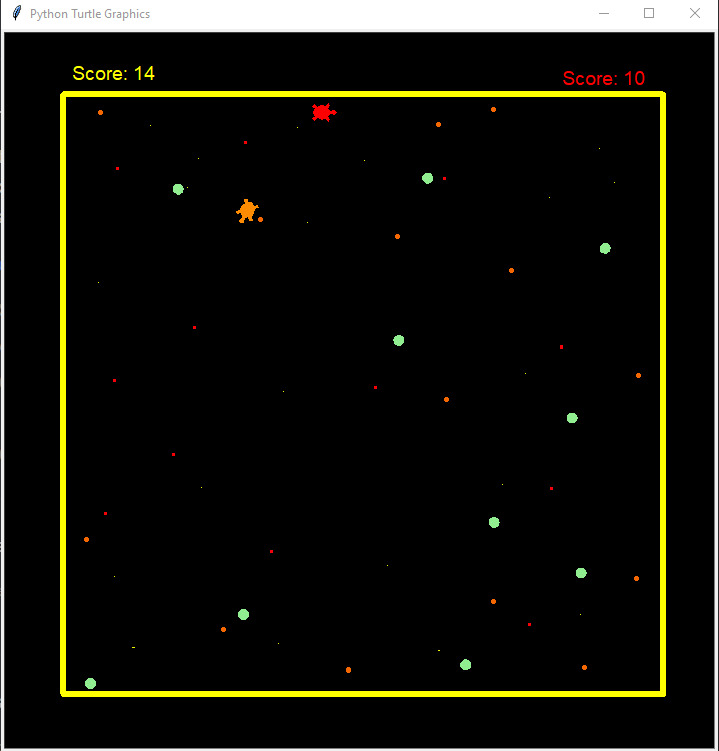
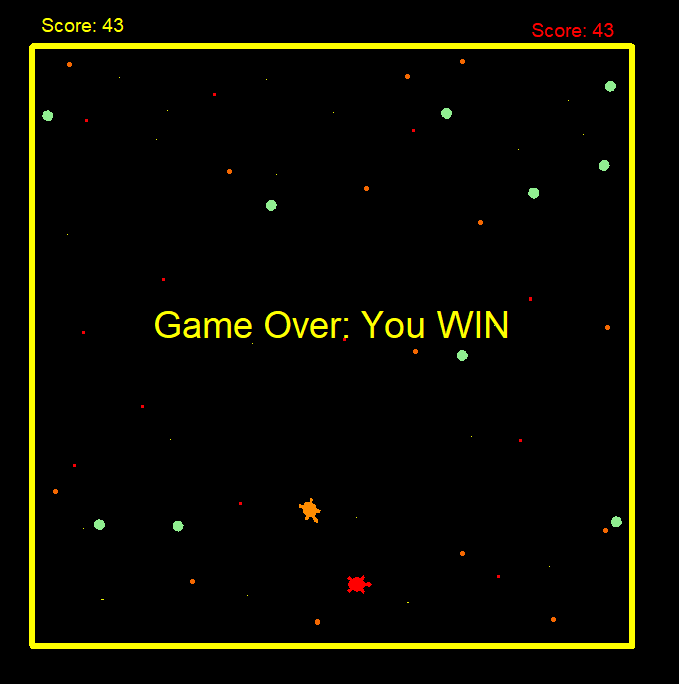
Add final code for reference and screenshot

diff --git a/coursecode.py b/coursecode.py
@@ -1,0 +1,195 @@
+#Turtle Graphics Game
+# https://tutorials.shecodes.com.au/python_game/src/kbgame11_win.py
+import turtle
+import math
+import random
+import winsound
+import time
+
+#Set up screen
+turtle.setup(650,650)
+wn = turtle.Screen()
+wn.bgcolor("black")
+wn.bgpic("kbgame-bg.gif")
+wn.tracer(3)
+
+#Draw border
+mypen = turtle.Turtle()
+mypen.color("white")
+mypen.penup()
+mypen.setposition(-300,-300)
+mypen.pendown()
+mypen.pensize(3)
+for side in range(4):
+    mypen.forward(600)
+    mypen.left(90)
+mypen.hideturtle()
+
+
+#Create player turtle
+player = turtle.Turtle()
+player.color("darkorange")
+player.shape("turtle")
+player.penup()
+player.speed(0)
+
+#Create compition turtle
+comp = turtle.Turtle()
+comp.color("red")
+comp.shape("turtle")
+comp.penup()
+comp.setposition(random.randint(-290, 290), random.randint(-290, 290))
+
+#Create Comp score
+mypen2 = turtle.Turtle()
+mypen2.color("red")
+mypen2.hideturtle()
+
+
+#Create variabl score
+score = 0
+compscore = 0
+
+#create food
+maxFoods = 10
+foods = []
+
+for count in range(maxFoods):
+    new_food = turtle.Turtle()
+    new_food.color("lightgreen")
+    new_food.shape("circle")
+    new_food.shapesize(.5)
+    new_food.penup()
+    new_food.speed(0)
+    new_food.setposition(random.randint(-290, 290), random.randint(-290, 290))
+    foods.append(new_food)
+
+#Set speed variable
+speed = 1
+
+
+#Set game time limit for 1 minute (60 seconds)
+timeout = time.time() + 10*6
+
+#Define  functions
+
+def turn_left():
+    player.left(30)
+
+def turn_right():
+    player.right(30)
+
+def increase_speed():
+    global speed
+    speed += 1
+
+def isCollision(t1, t2):
+       d = math.sqrt(math.pow(t1.xcor()-t2.xcor(),2) + math.pow(t1.ycor()-t2.ycor(),2))
+       if d < 20:
+           return True
+       else:
+           return False
+
+#Set keyboard bindings
+turtle.listen()
+turtle.onkey(turn_left, "Left")
+turtle.onkey(turn_right, "Right")
+turtle.onkey(increase_speed, "Up")
+
+
+
+
+while True:
+    gametime = 0
+    if gametime == 6 or time.time() > timeout:
+        break
+    gametime = gametime - 1
+
+    player.forward(speed)
+    comp.forward(12)
+
+    #Boundary Player Checking x coordinate
+    if player.xcor() > 290 or player.xcor() <-290:
+        player.right(180)
+        winsound.PlaySound('bounce.wav', winsound.SND_ASYNC)
+
+    #Boundary Player Checking y coordinate
+    if player.ycor() > 290 or player.ycor() <-290:
+        player.right(180)
+        winsound.PlaySound('bounce.wav', winsound.SND_ASYNC)
+
+    #Boundary Comp Checking x coordinate
+    if comp.xcor() > 280 or comp.xcor() <-280:
+        comp.right(random.randint(30,155))
+        winsound.PlaySound('bounce.wav', winsound.SND_ASYNC)
+
+    #Boundary Comp Checking y coordinate
+    if comp.ycor() > 280 or comp.ycor() <-280:
+        comp.right(random.randint(30,155))
+        winsound.PlaySound('bounce.wav', winsound.SND_ASYNC)
+
+
+    #Move Food around
+    for food in foods:
+        food.forward(3)
+
+        #Boundary Food Checking x coordinate
+        if food.xcor() > 290 or food.xcor() <-290:
+           food.right(180)
+           winsound.PlaySound('bounce.wav', winsound.SND_ASYNC)
+
+        #Boundary Food Checking y coordinate
+        if food.ycor() > 290 or food.ycor() <-290:
+           food.right(180)
+           winsound.PlaySound('bounce.wav', winsound.SND_ASYNC)
+
+        #Player Collision checking
+        if isCollision(player, food):
+           food.setposition(random.randint(-290, 290), random.randint(-290, 290))
+           food.right(random.randint(0,360))
+           winsound.PlaySound('chomp.wav', winsound.SND_ASYNC)
+           score+=1
+           #Draw the score on the screen
+           mypen.undo()
+           mypen.penup()
+           mypen.hideturtle()
+           mypen.setposition(-290, 310)
+           scorestring ="Score: %s" %score
+           mypen.write(scorestring, False, align="left", font=("Arial", 14, "normal"))
+
+       # Comp Collision checking
+        if isCollision(comp, food):
+           food.setposition(random.randint(-290, 290), random.randint(-290, 290))
+           food.right(random.randint(0,360))
+           winsound.PlaySound('chomp.wav', winsound.SND_ASYNC)
+           compscore+=1
+           #Draw the Comp score on the screen
+           mypen2.undo()
+           mypen2.penup()
+           mypen2.hideturtle()
+           mypen2.setposition(200, 310)
+           scorestring ="Score: %s" %compscore
+           mypen2.write(scorestring, False, align="left", font=("Arial", 14, "normal"))
+
+
+if (int(score) > int(compscore)):
+    mypen.setposition(0, 0)
+    mypen.color("yellow")
+    mypen.write("Game Over: You WIN", False, align="center", font=("Arial", 28, "normal"))
+else:
+    mypen.setposition(0, 0)
+    mypen.color("yellow")
+    mypen.write("Game Over: You LOOSE", False, align="center", font=("Arial", 28, "normal"))
+
+
+
+
+
+
+
+
+
+
+
+
+# delay = input("Press Enter to finish.")
